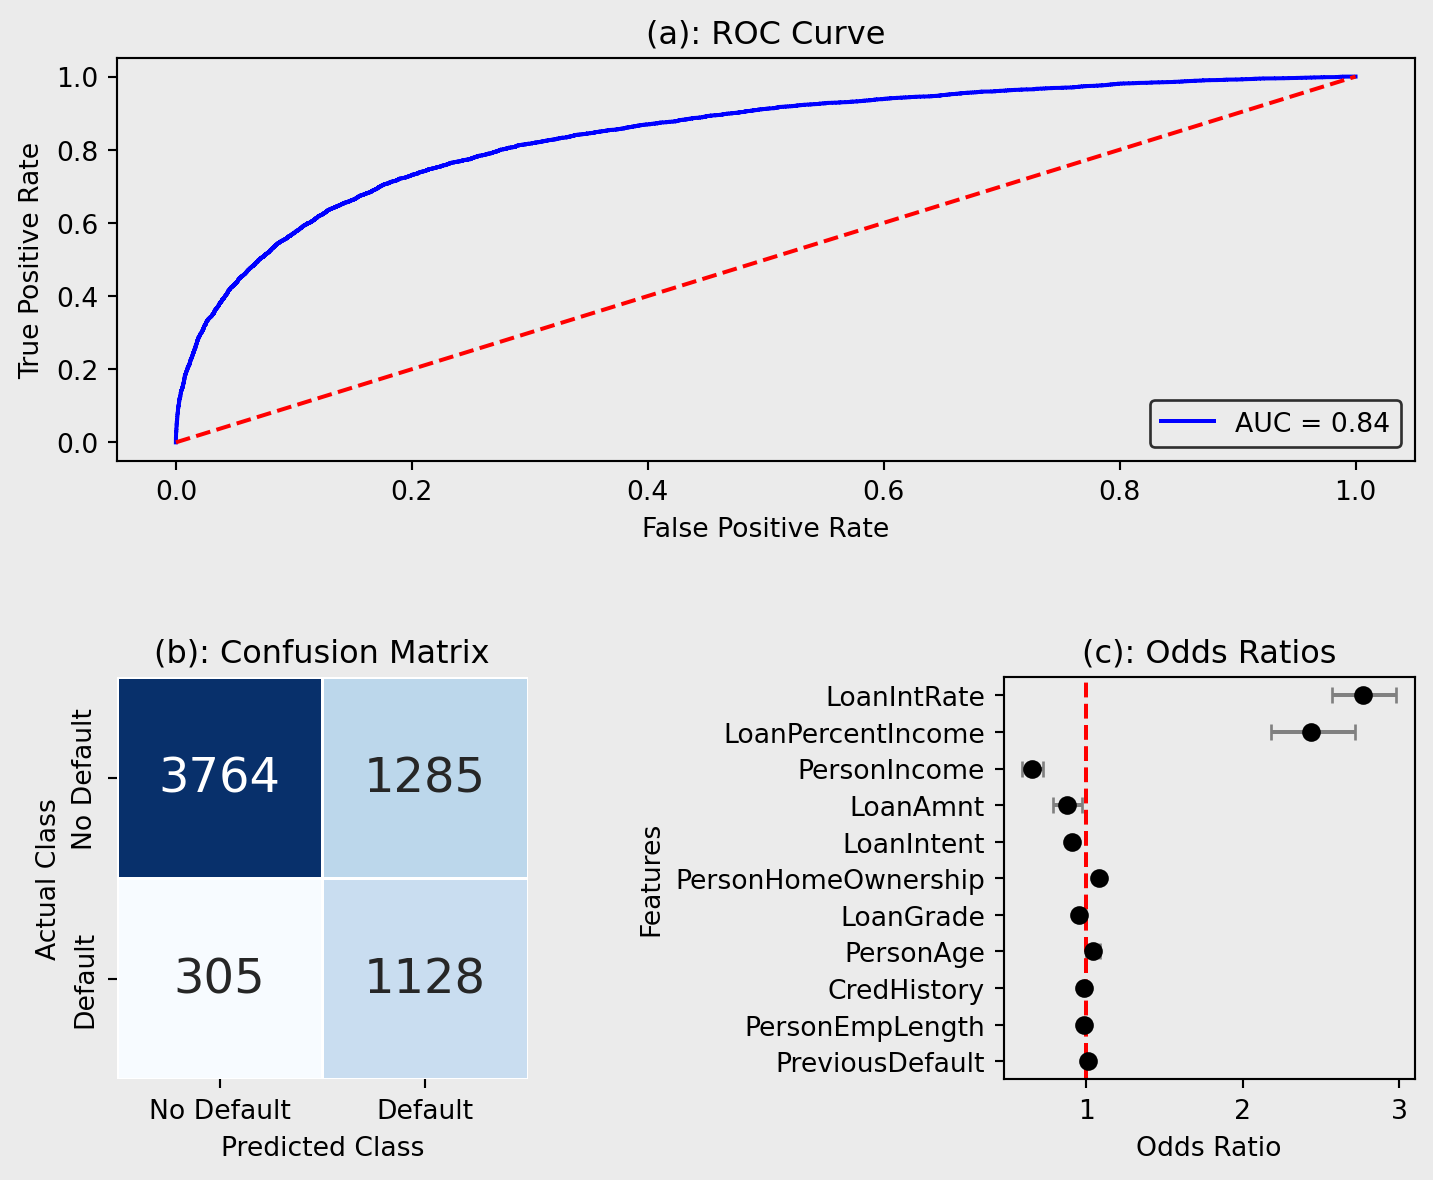
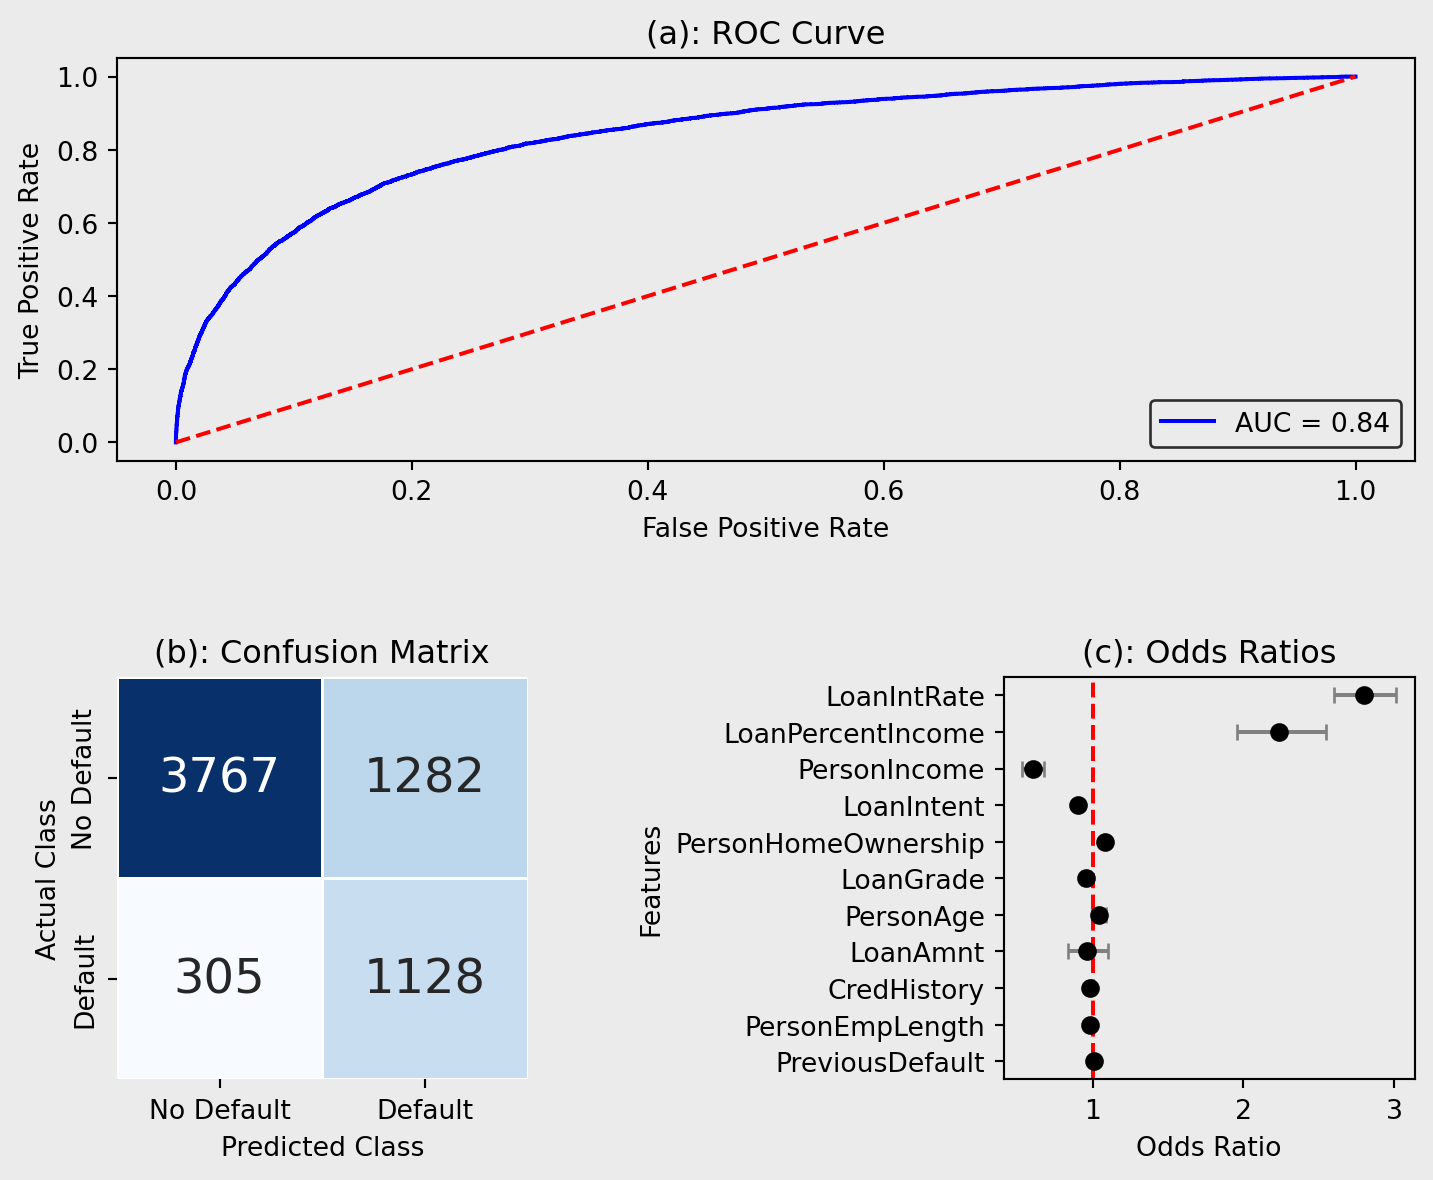
setting seed for reproducability

diff --git a/Project/Outputs/Blog.html b/Project/Outputs/Blog.html
@@ -426,7 +426,7 @@ Figure&nbsp;3: Correlation and Multicollinearity Analysis
 </div>
 </div>
 <p>Figure 3(a) shows a correlation plot quantifying the relationships between the variables and the target <em>LoanStatus</em>. <em>LoanGrade</em> and <em>LoanIntRate</em> have a high correlation coefficient (r = 0.95), indicating that they are highly correlated. Also, a similar relationship is shown between <em>PersonAge</em> and <em>CredHistory</em> (r = 0.81). These patterns are expected, older borrowers tend to have longer credit histories, and higher loan grades are typically associated with higher interest rates. While these correlations suggest potential multicollinearity, further assessment using variance inflation factors (VIF) is required.</p>
-<p>VIF values for all the variables are shown in Figure 3(b). In contrast to Figure 3(a), <em>LoanGrade</em>, <em>LoanIntRate</em>, <em>PersonAge</em>, and <em>CredHistory</em> have low VIF values, indicating low levels of multicollinearity. However, <em>LoanAmnt</em>, <em>LoanPercentIncome</em> and <em>PersonIncome</em> have VIF values greater than 10 which indicates multicollinearity and actions need to be taken to ensure they don’t affect the models. For the logistic regression, L1 and L2 regularisation was deployed to reduce the effects of multicollinearity. Other models are tree-based and handle multicollinearity, therefore no further processing is needed.</p>
+<p>VIF values for all the variables are shown in Figure 3(b). In contrast to Figure 3(a), <em>LoanGrade</em>, <em>LoanIntRate</em>, <em>PersonAge</em>, and <em>CredHistory</em> have low VIF values, indicating low levels of multicollinearity. However, LoanAmnt, LoanPercentIncome and PersonIncome have VIF values greater than 10 which indicates multicollinearity and actions need to be taken to ensure they don’t affect the models. For the logistic regression, L1 and L2 regularisation was deployed to reduce the effects of multicollinearity. Other models are tree-based and handle multicollinearity, therefore no further processing is needed.</p>
 <hr style="width: 150px; border: none; height: 4px; background-color:rgb(45,62,81,255); margin: auto;">
 </section>
 <section id="moving-beyond-correlation-searching-for-causality" class="level3">
@@ -475,9 +475,9 @@ Figure&nbsp;5: Logistic Regression Model Visualisations
 </div>
 </div>
 </div>
-<p>Figure 5(a) shows the ROC curve for the LR model, an indication of the trade-off between sensitivity and specificity of the model. The model achieved an AUC score of 0.841, regarded as considerable <span class="citation" data-cites="Corbacioglu:2023">(<a href="#ref-Corbacioglu:2023" role="doc-biblioref">Çorbacıoğlu &amp; Aksel, 2023</a>)</span>, indicating solid predictive performance when distinguishing between positive outcomes. The model’s curve lies well above the diagonal reference line (AUC = 0.5), which represents random classification, demonstrating its predictive applications. However, the graph shows room for improvement due to the true positive rate (TPR) remaining below 0.9.</p>
-<p>Figure 5(b) visualises the error within the classification model. The matrix reveals that the model correctly identified 3764 non-default cases (true negatives) and 1128 default cases (true positives), demonstrating its ability to capture both classes effectively. However, 1285 non-default cases were misclassified as defaults (false positives), while 305 defaulters were missed (false negatives), which could result in financial loss for lenders.</p>
-<p>Figure 5(c) shows the odds ratios for the LR model. The odds ratio indicates the increase in the risk of defaulting for a one-unit increase in that variable and allows for an easy interpretation of the relationships between the individual features and credit risk. The results indicate that <em>LoanIntRate</em> and <em>LoanPercentIncome</em> have the strongest positive associations with default, with odds ratios of 2.766 and 2.432, respectively. This suggests that as interest rates or the proportion of income allocated to the loan increases, the likelihood of default rises significantly. Conversely, <em>PersonIncome</em> has an odds ratio of 0.653, indicating that higher income lowers default probability, consistent with economic expectations.</p>
+<p>Figure 5(a) shows the ROC curve for the LR model, an indication of the trade-off between sensitivity and specificity of the model. The model achieved an AUC score of 0.842, regarded as considerable <span class="citation" data-cites="Corbacioglu:2023">(<a href="#ref-Corbacioglu:2023" role="doc-biblioref">Çorbacıoğlu &amp; Aksel, 2023</a>)</span>, indicating solid predictive performance when distinguishing between positive outcomes. The model’s curve lies well above the diagonal reference line (AUC = 0.5), which represents random classification, demonstrating its predictive applications. However, the graph shows room for improvement due to the true positive rate (TPR) remaining below 0.9.</p>
+<p>Figure 5(b) visualises the error within the classification model. The matrix reveals that the model correctly identified 3767 non-default cases (true negatives) and 1128 default cases (true positives), demonstrating its ability to capture both classes effectively. However, 1282 non-default cases were misclassified as defaults (false positives), while 305 defaulters were missed (false negatives), which could result in financial loss for lenders.</p>
+<p>Figure 5(c) shows the odds ratios for the LR model. The odds ratio indicates the increase in the risk of defaulting for a one-unit increase in that variable and allows for an easy interpretation of the relationships between the individual features and credit risk. The results indicate that <em>LoanIntRate</em> and <em>LoanPercentIncome</em> have the strongest positive associations with default, with odds ratios of 2.797 and 2.234, respectively. This suggests that as interest rates or the proportion of income allocated to the loan increases, the likelihood of default rises significantly. Conversely, <em>PersonIncome</em> has an odds ratio of 0.602, indicating that higher income lowers default probability, consistent with economic expectations.</p>
 </div>
 <div id="tabset-2-2" class="tab-pane" role="tabpanel" aria-labelledby="tabset-2-2-tab">
 <p>The second model that was developed and compared with the LR model was an RF, trained on all the standard variables, as they have been shown to have superior performance than LR models <span class="citation" data-cites="Couronne:2018">(<a href="#ref-Couronne:2018" role="doc-biblioref">Couronné et al., 2018</a>)</span>.</p>
@@ -496,7 +496,7 @@ Figure&nbsp;6: Random Forest Model Visualisations
 </div>
 </div>
 <p>The ROC curve, illustrated in Figure 6(a), showcases its improved classification ability in distinguishing between cases and can be compared to LRs. The model achieved a excellent AUC of 0.927 <span class="citation" data-cites="Corbacioglu:2023">(<a href="#ref-Corbacioglu:2023" role="doc-biblioref">Çorbacıoğlu &amp; Aksel, 2023</a>)</span>, indicating strong predictive capability and shows that more complex models have the potential to improve credit risk prediction, however highly accurate performance may indicate overfitting.</p>
-<p>The confusion matrix (Figure 6(b)) provides a detailed comparison of actual versus predicted default status. In this case, the model correctly predicted non-default for 4996 instances (True Negatives), and correctly identified defaulting for 988 instances (True Positives). However, there were 53 false positives, where the model incorrectly predicted defaulting when the actual class was non-default, and 445 false negatives. This confusion matrix reiterates the improved performance from the LR as the incorrect classification instances have decreased.</p>
+<p>The confusion matrix (Figure 6(b)) provides a detailed comparison of actual versus predicted default status. In this case, the model correctly predicted non-default for 4998 instances (True Negatives), and correctly identified defaulting for 984 instances (True Positives). However, there were 51 false positives, where the model incorrectly predicted defaulting when the actual class was non-default, and 449 false negatives. This confusion matrix reiterates the improved performance from the LR as the incorrect classification instances have decreased.</p>
 <p>Figure 6(c) demonstrates the most influential features when predicting credit risk by visualising feature importance calculated using mean decrease in accuracy. <em>LoanIntRate</em> is the most important feature suggesting that the proportion of income allocated to a loan has the strongest impact on the model’s predictions, supporting the conclusions from the LR which ranked it second. <em>LoanPercentIncome</em> and <em>PersonIncome</em> are also shown to be within the top 3 most important features as they are in the LR model. Conversely, to the LR, the RF shows <em>LoanGrade</em> to have high importance whereas Figure 8 shows it to have very little impact on credit risk for the LR model, potentially attributed to the differences in model architecture.</p>
 </div>
 <div id="tabset-2-3" class="tab-pane" role="tabpanel" aria-labelledby="tabset-2-3-tab">
@@ -515,8 +515,8 @@ Figure&nbsp;7: XGBoost Model Visualisations
 </div>
 </div>
 </div>
-<p>Figure 7(a) visualises the performance of the XGBoost in classifying positive outcomes. This model achieves a slightly higher AUC score than the RF (AUC = 0.943), demonstrating excellent predictive performance <span class="citation" data-cites="Corbacioglu:2023">(<a href="#ref-Corbacioglu:2023" role="doc-biblioref">Çorbacıoğlu &amp; Aksel, 2023</a>)</span>. Its built-in regularisation, max_depth, min_child_weight, and L1/L2 regularisation, reduces the risk of overfitting despite its complexity.</p>
-<p>Figure 7(b) reiterates the increased performance of the XGBoost. XGBoost predicts 41 more true positives than the RF, indicating better sensitivity avoiding potentially revenue losses due to defaulting. The model also has 9 fewer false positives, meaning it incorrectly predicts fewer non-defaulters as defaulters.</p>
+<p>Figure 7(a) visualises the performance of the XGBoost in classifying positive outcomes. This model achieves a slightly higher AUC score than the RF (AUC = 0.944), demonstrating excellent predictive performance <span class="citation" data-cites="Corbacioglu:2023">(<a href="#ref-Corbacioglu:2023" role="doc-biblioref">Çorbacıoğlu &amp; Aksel, 2023</a>)</span>. Its built-in regularisation, max_depth, min_child_weight, and L1/L2 regularisation, reduces the risk of overfitting despite its complexity.</p>
+<p>Figure 7(b) reiterates the increased performance of the XGBoost. XGBoost predicts 50 more true positives than the RF, indicating better sensitivity avoiding potentially revenue losses due to defaulting. The model also has 15 fewer false positives, meaning it incorrectly predicts fewer non-defaulters as defaulters.</p>
 <p>Figure 7(c) contradicts the other models (LR and RF), as these models predicted <em>LoanPercentIncome</em> to have less of an impact on the predictions than the XGBoost model. However, similar to the RF and LR model, the XGBoost placed high importance on <em>PersonHomeOwnership</em> reinforcing the notion that the proportion of income allocated to a loan significantly impacts the risk of defaulting. However, <em>LoanGrade</em> ranks higher than in the RF and LR, indicating that home ownership status may play a larger role in how XGBoosts evaluates credit risk.</p>
 </div>
 </div>
@@ -540,7 +540,7 @@ Figure&nbsp;8: Model Evaluation and Comparisons
 </div>
 </div>
 <p>Figure 8(a) shows that XGBoost (0.928) achieves the highest accuracy, closely followed by RF (0.923), while LR lags behind (0.755). However, accuracy alone can be misleading in imbalanced classification tasks such as credit scoring, where minimising the cost of misclassifying defaulters is critical <span class="citation" data-cites="Hand_D_J_Henley_W_E:1997">(<a href="#ref-Hand_D_J_Henley_W_E:1997" role="doc-biblioref">Hand, D. J., &amp; Henley, W. E., 1997</a>)</span>.</p>
-<p>Figure 8(b) highlights XGBoost’s overall strength, with the highest AUC (0.943), strong sensitivity (0.718), and F1 score (0.815). RF performs similarly, though with slightly lower recall. LR underperforms across most metrics except sensitivity (0.787) however, precision (0.467) is lacking reducing the applications of this model. Also, LR has the highest log loss (8.841), suggesting poorer probability calibration.</p>
+<p>Figure 8(b) highlights XGBoost’s overall strength, with the highest AUC (0.944), strong sensitivity (0.722), and F1 score (0.816). RF performs similarly, though with slightly lower recall. LR underperforms across most metrics except sensitivity (0.787) however, precision (0.468) is lacking reducing the applications of this model. Also, LR has the highest log loss (8.825), suggesting poorer probability calibration.</p>
 <p>In credit risk analysis, recall is critical. Missing a default is costlier than a false alarm <span class="citation" data-cites="Hand_D_J_Henley_W_E:1997">(<a href="#ref-Hand_D_J_Henley_W_E:1997" role="doc-biblioref">Hand, D. J., &amp; Henley, W. E., 1997</a>)</span>. While LR has competitive recall, XGBoost offers a better balance between recall, precision, and overall performance.</p>
 <p>Table 8(c) shows LR focuses on income-related variables, suggesting linear assumptions. Tree-based models prioritise features like LoanGrade and HomeOwnership, capturing non-linear interactions more effectively <span class="citation" data-cites="Zhou:2002">(<a href="#ref-Zhou:2002" role="doc-biblioref">Zhou et al., 2002</a>)</span>, making them more suited to complex credit risk tasks.</p>
 <hr style="width: 150px; border: none; height: 4px; background-color:rgb(45,62,81,255); margin: auto;">
@@ -562,51 +562,51 @@ Figure&nbsp;8: Model Evaluation and Comparisons
 <tbody>
 <tr class="odd">
 <td>Low Income</td>
-<td>0.916</td>
-<td>0.768</td>
-<td>0.850</td>
+<td>0.915</td>
+<td>0.771</td>
+<td>0.849</td>
 </tr>
 <tr class="even">
 <td>High Income</td>
-<td>0.940</td>
-<td>0.602</td>
-<td>0.728</td>
+<td>0.942</td>
+<td>0.607</td>
+<td>0.734</td>
 </tr>
 <tr class="odd">
 <td>Young (&lt; median age)</td>
-<td>0.927</td>
-<td>0.735</td>
-<td>0.828</td>
+<td>0.928</td>
+<td>0.741</td>
+<td>0.831</td>
 </tr>
 <tr class="even">
 <td>Old (≥ median age)</td>
-<td>0.929</td>
-<td>0.701</td>
-<td>0.802</td>
+<td>0.928</td>
+<td>0.703</td>
+<td>0.801</td>
 </tr>
 <tr class="odd">
 <td>Renters</td>
 <td>0.929</td>
-<td>0.811</td>
-<td>0.877</td>
+<td>0.814</td>
+<td>0.878</td>
 </tr>
 <tr class="even">
 <td>Homeowners</td>
-<td>0.990</td>
-<td>0.839</td>
-<td>0.912</td>
+<td>0.992</td>
+<td>0.871</td>
+<td>0.931</td>
 </tr>
 <tr class="odd">
 <td>Mortgage</td>
-<td>0.916</td>
-<td>0.429</td>
+<td>0.915</td>
+<td>0.432</td>
 <td>0.575</td>
 </tr>
 </tbody>
 </table>
 </div>
 </div>
-<p>The fairness audit of the XGBoost model highlights clear differences in recall across borrower subgroups. While overall accuracy remains high, recall is substantially lower for high-income (0.602) and mortgage (0.429) groups, suggesting the model is less effective at flagging defaulters in these categories. In contrast, renters (0.811) and homeowners (0.839) benefit from stronger sensitivity. These gaps may reflect imbalanced data or overlapping traits that obscure risk signals. For instance, mortgagers may combine stable income with high debt, complicating predictions. High-income defaulters may also be underrepresented, reducing model focus. Addressing these differences through subgroup-aware tuning or fairness constraints can improve equity in credit assessments.</p>
+<p>The fairness audit of the XGBoost model highlights clear differences in recall across borrower subgroups. While overall accuracy remains high, recall is substantially lower for high-income (0.607) and mortgage (0.432) groups, suggesting the model is less effective at flagging defaulters in these categories. In contrast, renters (0.814) and homeowners (0.871) benefit from stronger sensitivity. These gaps may reflect imbalanced data or overlapping traits that obscure risk signals. For instance, mortgagers may combine stable income with high debt, complicating predictions. High-income defaulters may also be underrepresented, reducing model focus. Addressing these differences through subgroup-aware tuning or fairness constraints can improve equity in credit assessments.</p>
 <hr style="width: 150px; border: none; height: 4px; background-color:rgb(45,62,81,255); margin: auto;">
 </section>
 <section id="from-models-to-meaning-what-we-can-learn" class="level3">
@@ -618,7 +618,7 @@ Figure&nbsp;8: Model Evaluation and Comparisons
 </section>
 <section id="key-takeaways" class="level2">
 <h2 class="anchored" data-anchor-id="key-takeaways"><strong>4. Key Takeaways</strong></h2>
-<p>This project compared the performance of LR, RF, and XGBoost in predicting loan defaults. XGBoost came out on top across all metrics, with the highest accuracy (0.928), AUC (0.943), and F1-score (0.815), showing its strength in capturing complex, non-linear patterns in borrower behavior. RF also performed well, though its slightly lower sensitivity suggests it might miss a few more defaulters. LR trailed behind, limited by its simpler, linear structure.</p>
+<p>This project compared the performance of LR, RF, and XGBoost in predicting loan defaults. XGBoost came out on top across all metrics, with the highest accuracy (0.928), AUC (0.944), and F1-score (0.816), showing its strength in capturing complex, non-linear patterns in borrower behavior. RF also performed well, though its slightly lower sensitivity suggests it might miss a few more defaulters. LR trailed behind, limited by its simpler, linear structure.</p>
 <p>When looking at what each model focused on, LR leaned heavily on income-based features like PersonIncome and LoanPercentIncome. In contrast, RF and XGBoost picked up broader signals, giving more weight to LoanGrade and PersonHomeOwnership. This suggests that ensemble models offer a more rounded view of credit risk.</p>
 <p>To explore how default risk changes across different borrowers, a causal forest was used to estimate conditional average treatment effects (CATEs) for PreviousDefault. While most estimates were close to zero, a clear subgroup showed much higher risk, highlighting the value of causal inference in spotting patterns that average models can miss.</p>
 <p>Even the best models have their blind spots. A fairness audit revealed that XGBoost performed unevenly across borrower groups, flagging fewer defaults for some demographics. This reinforces why fairness checks should be built into credit decision systems, to make sure everyone gets a fair shot.</p>
